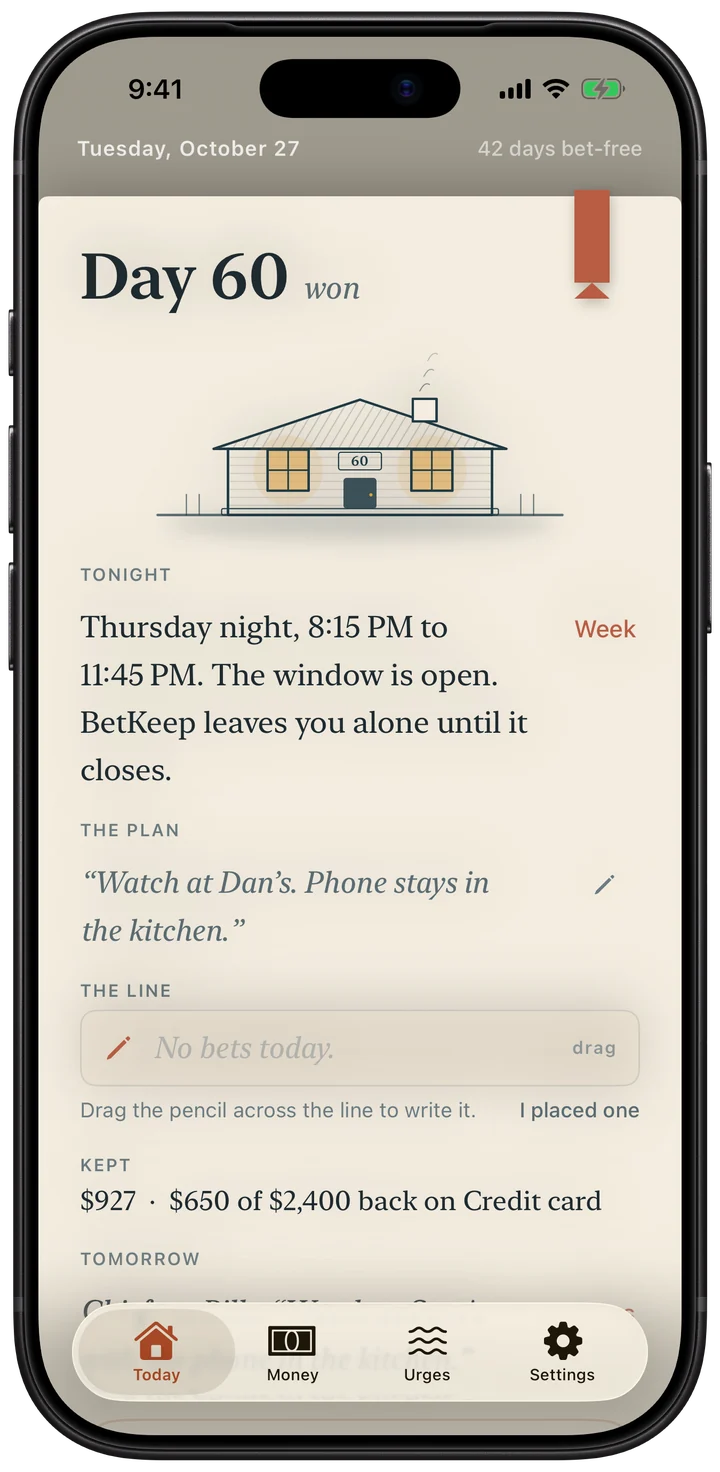
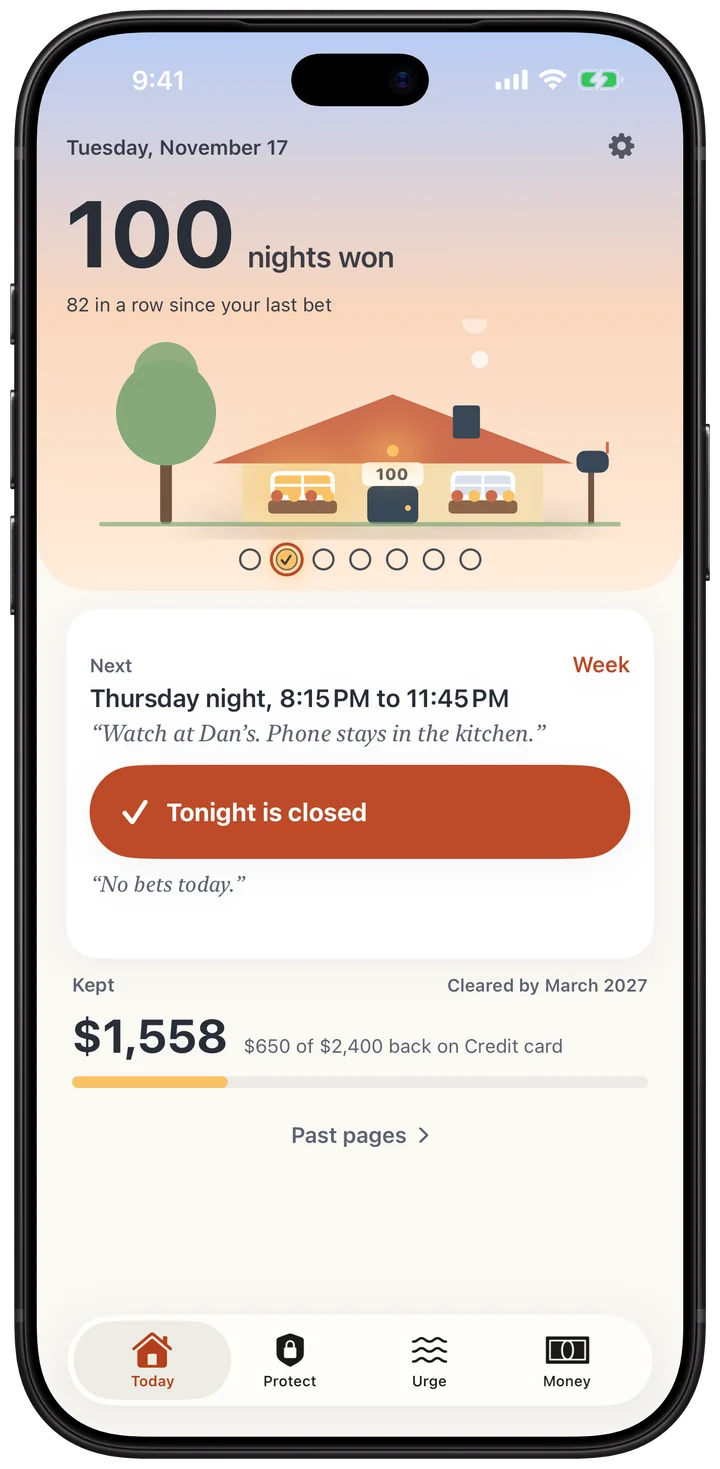
2.1 The Porch: dusk-sky look, the four 2.1 screens, blocking in the text, Terms 'Blocking' paragraph, privacy section on Screen Time (en, de), size and checked date

diff --git a/index.html b/index.html
@@ -1,6 +1,6 @@
 ---
 title: "BetKeep: a private app for quitting gambling, on iPhone"
-description: "BetKeep is a free iPhone app for quitting gambling: days won, money kept, a plan for the nights the games are on. No account, no ads, no data collected."
+description: "BetKeep is a free iPhone app for quitting gambling: it blocks betting apps and sites, counts the nights you win and keeps the money. No account, no ads, no data collected."
 image: /icon.png
 lang: en
 ---
@@ -20,7 +20,7 @@ lang: en
   "@type": "MobileApplication",
   "name": "BetKeep",
   "alternateName": "BetKeep: Quit Gambling",
-  "description": "A private quit-gambling companion for iPhone, built to sit beside your blocker: days won, money kept, a week that knows when the games are, and a five-step SOS. No account, no ads, no data collected.",
+  "description": "A private quit-gambling app for iPhone: it blocks betting apps and sites with Screen Time, counts the nights you win, keeps the money you would have lost, and gets you through the urge. No account, no ads, no data collected.",
   "url": "https://nickminieri.github.io/betkeep/",
   "installUrl": "https://apps.apple.com/app/id6811402448",
   "image": "https://nickminieri.github.io/betkeep/icon.png",
@@ -30,7 +30,7 @@ lang: en
     "en",
     "de"
   ],
-  "fileSize": "8.3 MB",
+  "fileSize": "9.2 MB",
   "contentRating": "12+",
   "datePublished": "2026-09-15",
   "isAccessibleForFree": true,
@@ -54,34 +54,35 @@ lang: en
     <div>
       <a class="brand" href="./"><img src="icon.png" alt="BetKeep app icon" width="44" height="44">BetKeep</a>
       <h1>Quit gambling.<br>Keep the money.</h1>
-      <p class="sub">Tonight's page in an honest book. The house grows by days won and never resets.</p>
+      <p class="sub">A night with no bet is a night won. It stays won.</p>
       <a class="badge" href="https://apps.apple.com/app/id6811402448"><img src="img/app-store-badge.svg" alt="Download on the App Store" width="162" height="54"></a>
       <p class="small">Free. No account. No ads.</p>
     </div>
-    <img class="phone" src="img/01_today.webp" alt="BetKeep on day 60: the house, tonight's window, your plan and the line to write" width="720" height="1472">
+    <img class="phone" src="img/01_today.webp" alt="BetKeep's Today screen: 100 nights won, the house on the porch at dusk, tonight's plan and the money kept" width="720" height="1469">
   </div>
 </div>
 
 <main>
-  <p class="lede" id="about">BetKeep is an iPhone app for quitting gambling: sports betting, prediction markets, online casino, poker, lottery, or trading. It is not a blocker. It sits beside the one you use.</p>
-  <p>It counts the days since your last bet and the money you kept, and it knows the nights the games are on. When the urge hits there are five steps to sit through it, with your region's helpline. Each night you write one line to close the day. Everything stays on your iPhone.</p>
+  <p class="lede" id="about">BetKeep is an iPhone app for quitting gambling: sports betting, prediction markets, online casino, poker, lottery, or trading. It blocks betting apps and sites, counts the nights you win and keeps the money you would have lost.</p>
+  <p>Turn on blocking and BetKeep uses Apple's Screen Time to block 31 popular US betting sites and the betting apps you pick. Turning it off inside BetKeep takes 24 hours. It is a speed bump, not a lock, so BetKeep also walks you through the steps that back it up: your bank's gambling block, state self-exclusion, deleting the apps and removing saved cards.</p>
+  <p>It knows the nights the games are on and shows your plan before each one. When the urge hits there is your plan, a 15-minute wave and your region's helpline. At the end of the night you hold to close it. Everything stays on your iPhone.</p>
 </main>
 
 <div class="three">
   <figure>
-    <img src="img/02_week.webp" alt="This week: the nights the games are on, each with your plan" width="720" height="1472" loading="lazy">
-    <h3 class="big">It knows the nights.</h3>
-    <p>Your plan is ready before kickoff.</p>
+    <img src="img/02_protect.webp" alt="Protect: blocking is on, 31 betting sites blocked and 6 betting apps picked" width="720" height="1469" loading="lazy">
+    <h3 class="big">Block betting apps and sites</h3>
+    <p>31 popular US betting sites and the apps you pick.</p>
   </figure>
   <figure>
-    <img src="img/03_ledger.webp" alt="The ledger: money kept, a goal and what is owed" width="720" height="1472" loading="lazy">
+    <img src="img/03_money.webp" alt="Money: $1,560 kept since July, a goal and what is owed" width="720" height="1469" loading="lazy">
     <h3 class="big">See the money you kept</h3>
     <p>Kept, paid back, and the day the debt clears.</p>
   </figure>
   <figure>
-    <img src="img/05_sos.webp" alt="Sit with me: the urge passes, with a 15-minute wave timer" width="720" height="1472" loading="lazy">
+    <img src="img/04_urge.webp" alt="Sit with me: your plan, a 15-minute wave timer and the helpline" width="720" height="1469" loading="lazy">
     <h3 class="big">When the urge hits</h3>
-    <p>Sit with me, then log the bet you didn't place.</p>
+    <p>Your plan, a 15-minute wave, a person to call.</p>
   </figure>
 </div>
 
@@ -93,8 +94,8 @@ lang: en
     <dt>Account</dt><dd>None. No sign-up, no server.</dd>
     <dt>Privacy label</dt><dd>Data Not Collected</dd>
     <dt>Works offline</dt><dd>Yes</dd>
-    <dt>Needs</dt><dd>An iPhone with iOS 17.0 or later.</dd>
-    <dt>Size</dt><dd>8.3 MB</dd>
+    <dt>Needs</dt><dd>An iPhone with iOS 17.0 or later. Blocking needs Screen Time access.</dd>
+    <dt>Size</dt><dd>9.2 MB</dd>
     <dt>Languages</dt><dd>English, German</dd>
     <dt>Category</dt><dd>Health &amp; Fitness</dd>
     <dt>Age rating</dt><dd>12+</dd>
@@ -102,7 +103,7 @@ lang: en
     <dt>On the App Store as</dt><dd><a href="https://apps.apple.com/app/id6811402448">BetKeep: Quit Gambling</a></dd>
     <dt>Made by</dt><dd>Nick Minieri, one person in the United States</dd>
   </dl>
-  <p class="soft" style="margin-top:12px">Checked against the App Store listing on November 10, 2026.</p>
+  <p class="soft" style="margin-top:12px">Checked against the App Store listing on November 19, 2026.</p>
 
   <h2 id="support">Support</h2>
 <p>Found a bug, or want something added? Email me at <a href="mailto:minieriapps+betkeep@gmail.com">minieriapps+betkeep@gmail.com</a>. I make BetKeep on my own and read every message. Give me a couple of days to reply.</p>
@@ -118,10 +119,12 @@ lang: en
     <p class="soft">BetKeep is a personal companion, not a medical or crisis service.</p>
 
   <h2 id="terms">Terms of Use</h2>
-      <p class="soft">Last updated: November 18, 2026</p>
+      <p class="soft">Last updated: November 19, 2026</p>
       <p>These terms apply together with <a href="https://www.apple.com/legal/internet-services/itunes/dev/stdeula/">Apple's standard licence for App Store apps</a>, which is the licence for BetKeep.</p>
       <h3>What BetKeep is</h3>
       <p>BetKeep is a personal companion. It is not a medical device, does not give medical or financial advice or treatment, and is not a substitute for professional help. In the United States you can call 1-800-GAMBLER at any hour.</p>
+      <h3>Blocking</h3>
+      <p>Blocking uses Apple's Screen Time. It is a speed bump, not a lock. You can turn it off, which takes 24 hours inside BetKeep, and it cannot block every betting app or site.</p>
       <h3>One-time purchases</h3>
       <p>When the app says a purchase is yours "forever", "for good" or for a "lifetime", it means this: you pay once, there are no renewals, and what you bought stays unlocked for as long as the app is available and supported on your device. It is tied to your Apple Account, so you can restore it on your other devices.</p>
       <p>"Forever" and "lifetime" refer to the life of the app, not to your lifetime or to a fixed number of years. Features may change, and the app may stop being updated or be withdrawn from the App Store. If that happens, the version on your device may keep working, but it cannot be promised to run on future versions of iOS or on future devices.</p>
@@ -134,7 +137,7 @@ lang: en
       <p>These terms may change, and the date above shows the latest version. Nothing here limits the rights you have under the consumer law of the place where you live.</p>
 
   <h2 id="privacy">Privacy Policy</h2>
-<p class="soft">Last updated: October 1, 2026</p>
+<p class="soft">Last updated: November 19, 2026</p>
     <p>BetKeep does not collect, transmit, sell, or share any of your data. There is no account, no login, and no server.</p>
     <h3>What we collect</h3>
 <p>Nothing. The app has no analytics, no ads, no third-party SDKs, and makes no network requests. Because there is no backend, your data physically cannot reach us.</p>
@@ -142,6 +145,8 @@ lang: en
 <p>Only on your iPhone, in Apple's on-device database. Delete the app and the data goes with it. Use the built-in backup, or the CSV/PDF export, to keep your own copy.</p>
     <h3>Notifications</h3>
 <p>If enabled, reminders are scheduled locally on your device and are not sent through any server.</p>
+    <h3>Blocking and Screen Time</h3>
+<p>Blocking is optional. If you turn it on, iOS asks for Screen Time access and you pick the betting apps in Apple's own picker. BetKeep gets a private token for each choice, enough to put the block in front of it. It cannot see which apps you picked or how you use them. The list of betting sites is built into the app. Nothing about blocking leaves your iPhone.</p>
     <h3>Face ID and the app lock</h3>
 <p>BetKeep does not collect, access, store, or share face data. The optional app lock (in BetKeep's Settings, off by default) uses Apple's LocalAuthentication framework: iOS performs the Face ID, Touch ID, or passcode check itself and tells BetKeep only whether it succeeded. Your face data stays in your device's Secure Enclave under Apple's control; BetKeep never receives it, so there is nothing for us to use, retain, disclose, or share with any third party. To withdraw permission, turn the lock off in BetKeep's Settings, or switch off Face ID for BetKeep in the iOS Settings app (Face ID &amp; Passcode › Other Apps). Because BetKeep holds no face data there is nothing for it to delete; your enrolled face is managed, and can be removed, only in iOS Settings › Face ID &amp; Passcode.</p>
     <h3>Get Help and block setup links</h3>

diff --git a/datenschutz.html b/datenschutz.html
@@ -18,13 +18,15 @@ lang: de
 <body>
 <div class="plain"><a class="brand" href="./"><img src="icon.png" alt="BetKeep" width="44" height="44">BetKeep</a></div>
 <main>
-<p class="soft">Aufhören zu wetten. Der Begleiter zu deinem Blocker.</p>
-  <p>BetKeep hilft dir, mit Sportwetten, Prognosemärkten, Online-Casino und Trading aufzuhören. Die App zählt die Tage seit deiner letzten Wette, behält das Geld, das du sonst verloren hättest, führt dich in fünf Schritten durch den Drang und hilft dir, die Sperren einzurichten, die wirklich halten. Sie ist kein Blocker. Alles bleibt auf deinem iPhone: kein Konto, keine Werbung, kein Abo.</p>
+<p class="soft">Glücksspiel beenden. Geld behalten.</p>
+  <p>BetKeep hilft dir, mit dem Glücksspiel aufzuhören: Die App sperrt Wett-Apps und Wettseiten, zählt die Nächte, die du gewinnst, behält das Geld, das du sonst verloren hättest, und bringt dich durch den Drang. Alles bleibt auf deinem iPhone: kein Konto, keine Werbung, kein Abo.</p>
   <h2 id="terms" style="margin-top:40px">Nutzungsbedingungen</h2>
-    <p class="soft">Stand: 18. November 2026</p>
+    <p class="soft">Stand: 19. November 2026</p>
     <p>Diese Bedingungen gelten zusammen mit <a href="https://www.apple.com/legal/internet-services/itunes/dev/stdeula/">Apples Standardlizenz für Apps im App Store</a>, der Lizenz für BetKeep.</p>
     <h3>Was BetKeep ist</h3>
     <p>BetKeep ist ein persönlicher Begleiter. Es ist kein Medizinprodukt, gibt keine medizinische oder finanzielle Beratung oder Behandlung und ersetzt keine professionelle Hilfe.</p>
+    <h3>Sperren</h3>
+    <p>Die Sperre nutzt Apples Bildschirmzeit. Sie ist eine Bremsschwelle, kein Schloss. Du kannst sie ausschalten, was in BetKeep 24 Stunden dauert, und sie kann nicht jede Wett-App oder Wettseite sperren.</p>
     <h3>Einmalkäufe</h3>
     <p>Wenn die App sagt, ein Kauf gehöre dir „für immer“ oder „lebenslang“, heißt das: Du zahlst einmal, es gibt keine Verlängerung, und was du gekauft hast, bleibt freigeschaltet, solange die App verfügbar ist und auf deinem Gerät unterstützt wird. Der Kauf hängt an deinem Apple Account, du kannst ihn also auf deinen anderen Geräten wiederherstellen.</p>
     <p>„Für immer“ und „lebenslang“ beziehen sich auf die Lebensdauer der App, nicht auf deine Lebenszeit und nicht auf eine feste Zahl von Jahren. Funktionen können sich ändern, und die App kann irgendwann nicht mehr aktualisiert oder aus dem App Store genommen werden. Die Version auf deinem Gerät läuft dann womöglich weiter, aber es kann nicht zugesagt werden, dass sie auf künftigen iOS-Versionen oder Geräten läuft.</p>
@@ -37,7 +39,7 @@ lang: de
     <p>Diese Bedingungen können sich ändern, das Datum oben zeigt den aktuellen Stand. Nichts hier schränkt die Rechte ein, die du nach dem Verbraucherrecht deines Wohnorts hast.</p>
 
   <h2 id="privacy">Datenschutzerklärung</h2>
-    <p class="soft">Stand: 1. Oktober 2026</p>
+    <p class="soft">Stand: 19. November 2026</p>
     <p>BetKeep erhebt, überträgt, verkauft und teilt keine deiner Daten. Es gibt kein Konto, keinen Login und keinen Server.</p>
     <h3>Was wir erheben</h3>
 <p>Nichts. Die App enthält keine Analyse-Tools, keine Werbung und keine SDKs von Drittanbietern und stellt keine Netzwerkverbindungen her. Da es kein Backend gibt, können deine Daten uns technisch gar nicht erreichen.</p>
@@ -45,6 +47,8 @@ lang: de
 <p>Nur auf deinem iPhone, in Apples lokaler Datenbank. Löschst du die App, sind die Daten weg. Mit dem eingebauten Backup oder dem CSV/PDF-Export kannst du jederzeit eine eigene Kopie behalten.</p>
     <h3>Mitteilungen</h3>
 <p>Wenn du Erinnerungen einschaltest, werden sie lokal auf deinem Gerät geplant und nicht über einen Server gesendet.</p>
+    <h3>Sperre und Bildschirmzeit</h3>
+<p>Die Sperre ist freiwillig. Wenn du sie einschaltest, fragt iOS nach dem Zugriff auf die Bildschirmzeit, und du wählst die Wett-Apps in Apples eigener Auswahl. BetKeep erhält für jede Auswahl ein privates Token, das gerade reicht, um die Sperre davorzusetzen. Die App kann nicht sehen, welche Apps du gewählt hast oder wie du sie nutzt. Die Liste der Wettseiten ist in die App eingebaut. Nichts zur Sperre verlässt dein iPhone.</p>
     <h3>Face ID und die App-Sperre</h3>
 <p>BetKeep erhebt, liest, speichert und teilt keine Gesichtsdaten. Die optionale App-Sperre (in den Einstellungen von BetKeep, standardmäßig aus) nutzt Apples LocalAuthentication-Framework: iOS prüft Face ID, Touch ID oder den Code selbst und teilt BetKeep nur mit, ob die Prüfung erfolgreich war. Deine Gesichtsdaten bleiben in der Secure Enclave deines Geräts unter Apples Kontrolle; BetKeep erhält sie nie, kann sie also weder nutzen noch aufbewahren, offenlegen oder an Dritte weitergeben. Um die Erlaubnis zu widerrufen, schalte die Sperre in den Einstellungen von BetKeep aus oder deaktiviere Face ID für BetKeep in den iOS-Einstellungen (Face ID &amp; Code › Andere Apps). Da BetKeep keine Gesichtsdaten besitzt, gibt es nichts zu löschen; dein hinterlegtes Gesicht verwaltest und entfernst du ausschließlich in den iOS-Einstellungen › Face ID &amp; Code.</p>
     <h3>Hilfe-Ressourcen und Sperren</h3>

diff --git a/style.css b/style.css
@@ -1,23 +1,23 @@
-:root { --ink:#17272d; --soft:#5b6268; --rule:#e4e6e8; --leaf:#a3432c; --heroink:#fff; }
+:root { --ink:#262b3a; --soft:#5b6268; --rule:#e4e6e8; --leaf:#bd4a29; --heroink:#262b3a; }
 * { box-sizing:border-box; }
 html { -webkit-text-size-adjust:100%; }
 body { margin:0; background:#fff; color:var(--ink); font:17px/1.6 -apple-system,BlinkMacSystemFont,"Segoe UI",Roboto,Helvetica,Arial,sans-serif; }
 a { color:var(--leaf); }
 img { max-width:100%; height:auto; display:block; }
-h1,h2,h3.big { font-family:ui-serif,"New York",Georgia,"Times New Roman",serif; font-weight:600; letter-spacing:-0.01em; line-height:1.1; margin:0; }
+h1,h2,h3.big { font-family:-apple-system,BlinkMacSystemFont,"Segoe UI",Roboto,Helvetica,Arial,sans-serif; font-weight:700; letter-spacing:-0.01em; line-height:1.1; margin:0; }
 
 /* The ground of the App Store panels */
-.sky { position:relative; overflow:hidden; color:var(--heroink); background:linear-gradient(180deg,#1d333b,#1b3038,#192c34,#172930,#15262d,#122229); }
-.sky::before { content:""; position:absolute; inset:0; background:linear-gradient(180deg,#1d333b,#1b3038,#192c34,#172930,#15262d,#122229);
+.sky { position:relative; overflow:hidden; color:var(--heroink); background:linear-gradient(180deg,#baccf1,#c5ceea,#d1d0e2,#ddd2d9,#ead5ce,#f7d8c4); }
+.sky::before { content:""; position:absolute; inset:0; background:linear-gradient(180deg,#baccf1,#c5ceea,#d1d0e2,#ddd2d9,#ead5ce,#f7d8c4);
   -webkit-mask-image:linear-gradient(90deg,transparent 0%,#000 100%); mask-image:linear-gradient(90deg,transparent 0%,#000 100%); }
 .hero { position:relative; max-width:980px; margin:0 auto; padding:28px 24px 0; display:grid; grid-template-columns:1fr 340px; gap:40px; align-items:center; }
 .brand { display:flex; align-items:center; gap:12px; font-weight:600; font-size:19px; color:inherit; text-decoration:none; }
-.brand img { width:44px; height:44px; border-radius:22.5%; box-shadow:0 2px 8px rgba(0,0,0,.25); }
+.brand img { width:44px; height:44px; border-radius:22.5%; box-shadow:0 2px 8px rgba(60,40,60,.22); }
 .hero h1 { font-size:58px; margin-top:56px; text-wrap:balance; }
 .hero .sub { font-size:21px; margin:16px 0 28px; max-width:26em; }
 .badge img { height:54px; width:auto; }
 .hero .small { font-size:15px; margin:14px 0 48px; }
-.hero .phone { align-self:end; margin-bottom:-90px; filter:drop-shadow(0 18px 30px rgba(0,0,0,.35)); }
+.hero .phone { align-self:end; margin-bottom:-90px; filter:drop-shadow(0 18px 30px rgba(60,40,60,.30)); }
 
 main { max-width:720px; margin:0 auto; padding:0 24px 72px; }
 .lede { font-size:21px; line-height:1.5; margin:64px 0 0; }
